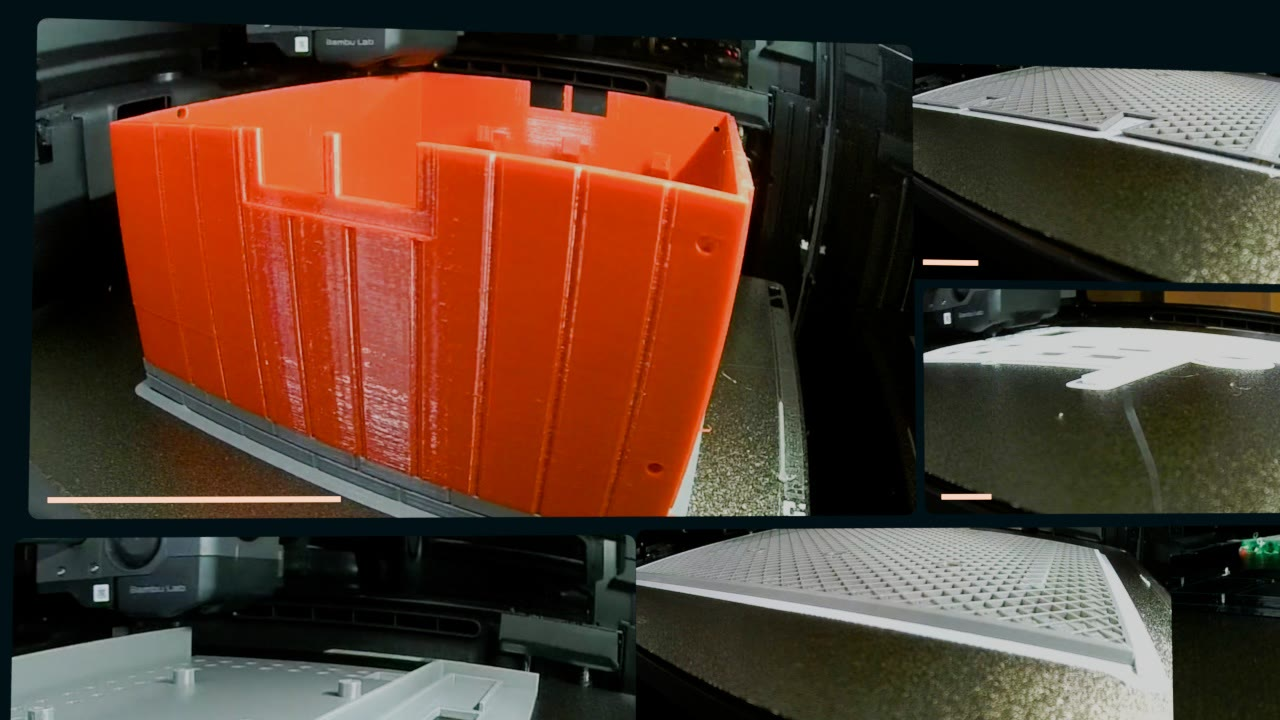
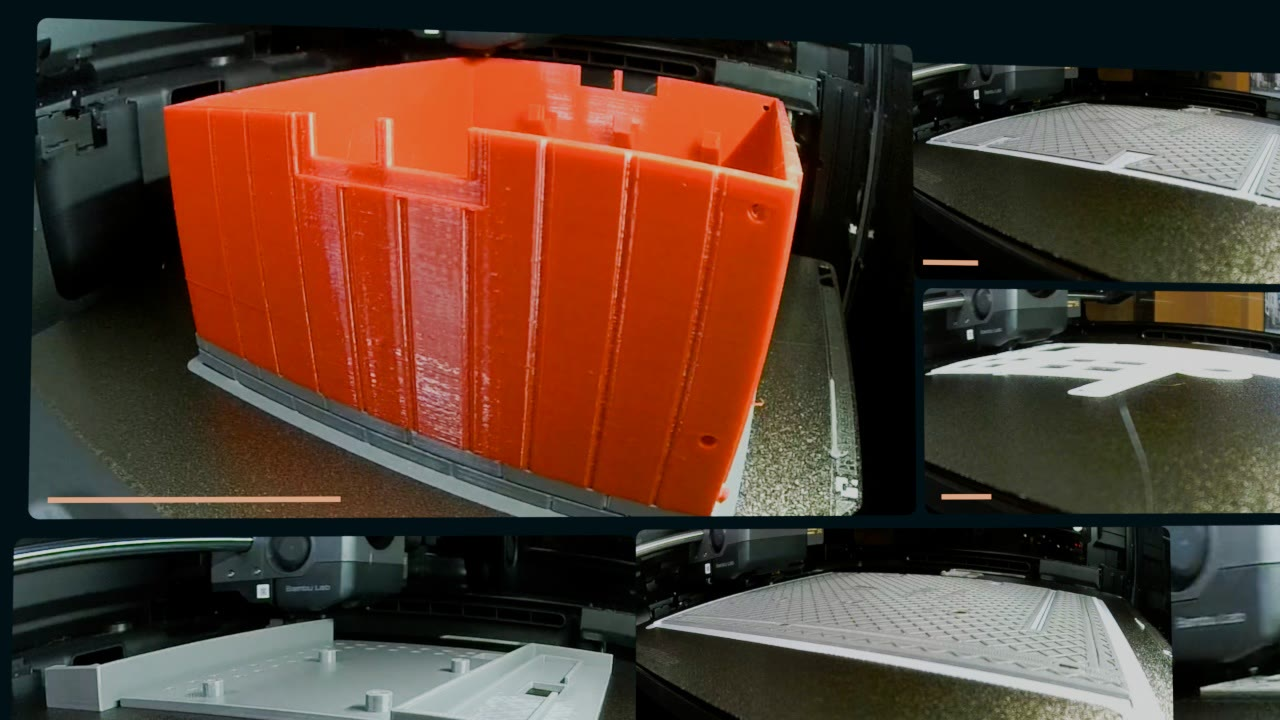
Film: timelapse-rutorna beskurna och i takt
Varje ruta i utskriftsväggen är beskuren kring sin del och följer den när
byggplattan sänks. Blomlådan visas utan filamenttornet. Klippen spelas bara
fram till att delen är färdig, så att de korta klippen inte står klara
medan de andra fortfarande skrivs ut. 5.1 ska bli Marcus film när
byggplattan läggs i.

diff --git a/trailer/storyboard/storyboard.html b/trailer/storyboard/storyboard.html
@@ -134,7 +134,7 @@ td:first-child { color: var(--fg); white-space: nowrap; font-family: var(--mono)
 <div class="wrap">
 
 <header class="top">
-  <div class="eyebrow">Storyboard v33 · Riktiga timelapse-klipp i utskriftsväggen</div>
+  <div class="eyebrow">Storyboard v34 · Timelapse-klippen beskurna och i takt</div>
   <h1>Projekt <span>Lennart</span></h1>
   <p class="lead">En helt orimlig mängd teknik, redovisad med fullt allvar, för att en ekorre ska få äta sin nöt i fred.</p>
   <div class="facts">
@@ -331,7 +331,7 @@ td:first-child { color: var(--fg); white-space: nowrap; font-family: var(--mono)
     <div><h3>Kvar att lösa</h3>
       <ul>
         <li><b>Finalen.</b> Film på det riktiga huset med en fågel och med Lennart, när huset är utskrivet. Tills dess ligger platshållare där.</li>
-        <li><b>Film från utskriften.</b> Utskriftsväggen (5.2–5.3) använder nu dina åtta timelapse-klipp. Kvar är 5.1, som fortfarande är en stillbild ur 3D, och den kan bytas mot ett närklipp på munstycket.</li>
+        <li><b>Film från utskriften.</b> Utskriftsväggen (5.2–5.3) använder nu dina åtta timelapse-klipp. Kvar är 5.1: du filmar när du lägger i byggplattan, som om du förbereder utskrifterna. Tills dess är det en stillbild ur 3D.</li>
         <li><b>Originalfilerna i högre upplösning.</b> Klippen är 720p och förstoras nästan två gånger.</li>
         <li><b>Inköpslistan</b>, så att antal servon, filamentfärger och övriga delar blir rätt i del 4.</li>
         <li><b>Vilken AI-tjänst</b> som används i molnet, om den ska nämnas vid namn.</li>
@@ -373,7 +373,7 @@ td:first-child { color: var(--fg); white-space: nowrap; font-family: var(--mono)
     <li><b>Du godkänner ordningen och manuset</b>, eller ger noter per klippnummer.</li>
     <li><b>Du spelar in rösten</b>, en fil per del.</li>
     <li><b>Jag bygger del 2</b>, planen med pappfigurerna, och tajmar om de färdiga delarna efter din röst.</li>
-    <li><b>Del 6</b> byggs i 3D. Del 5 visar dina riktiga timelapse-klipp, utom 5.1 som är en stillbild ur 3D.</li>
+    <li><b>Del 6</b> byggs i 3D. Del 5 visar dina riktiga timelapse-klipp. 5.1 byts mot din film när du lägger i byggplattan.</li>
     <li><b>Finalen</b> klipps in när huset är utskrivet och filmat.</li>
   </ol>
 </section>
@@ -414,7 +414,7 @@ const ACTS = [
   ['4.2','1:57','6 s','Filamentet','a3_2','cg','Bron till utskriften.','Fem filamentrullar, röd, grön, vit, grå och svart, glider in. Kameran landar över alla fem och åker sedan in mot den röda.','Inåkning till makro.','Kall kant från höger.','Rullen accelererar.','Kameran åker in i rullens svarta nav tills bilden är svart.','"Plus en massa filament i rätt färger. Claude satte ihop inköpslistan, och sen var det bara för mig och Lennart att hosta upp pengarna."','Ett surr som går över i skrivarens fläkt.','3D'],
  ]],
  ['5 · Utskriften', '2:03–2:16', 'Utskriftsväggen visar nu dina åtta riktiga timelapse-klipp från skrivaren. 5.1 är fortfarande en stillbild ur 3D.', [
-  ['5.1','2:03','3 s','Lager för lager','12','cg','Bron från digitalt till fysiskt.','Stugans kropp halvvägs utskriven på skrivarens byggplatta. Den utskrivna delen har synliga lagerlinjer, det lager som skrivs just nu glöder vid munstycket, och resten av stugan syns som en svag genomskinlig förhandsvisning. Visar övergången från ritning till utskrift: modellen byggs upp ett tunt lager i taget.','Snett ovanifrån.','Sval och platt.','Planet stiger nerifrån och upp, som utskriften kommer att göra.','Munstycket glider in och lägger sig på planet.','"Och sen skrev jag ut allt."','En stigande ton som går över i fläkten.','Stillbild ur 3D från GLB, platshållare. Riktigt material: en skärminspelning från slicern (programmet som delar upp modellen i lager) eller ett närklipp på munstycket från skrivaren.'],
+  ['5.1','2:03','3 s','Lager för lager','12','cg','Bron från digitalt till fysiskt.','Du lägger i byggplattan i skrivaren och gör den redo, som om du förbereder utskrifterna i klippen efter. Tills den filmen finns ligger en stillbild ur 3D här: stugans kropp halvvägs utskriven, med det lager som skrivs just nu glödande vid munstycket.','Snett ovanifrån.','Sval och platt.','Planet stiger nerifrån och upp, som utskriften kommer att göra.','Munstycket glider in och lägger sig på planet.','"Och sen skrev jag ut allt."','En stigande ton som går över i fläkten.','Stillbild ur 3D från GLB, platshållare. Riktigt material: du filmar när du lägger i byggplattan i din skrivare.'],
   ['5.2','2:06','4 s','Utskriftsväggen','u1','mix','Visa hur mycket som skrevs ut.','En utskrift i helbild. Kameran backar och vrids, och det visar sig att den är en av åtta rutor i en vägg av timelapse-klipp i olika storlekar. Rutorna dyker fram utåt från den första.','Helbild som backar till en sned vy av väggen.','Rutorna är bildens enda ljus mot mörk petroleumblå botten.','Rutorna dyker fram en i taget, på olika djup.','Kameran fortsätter in i nästa klipp utan avbrott.','Ingen röst.','Ett lätt ljud per ruta.','Dina åtta timelapse-klipp från skrivaren (15–18/11) i 3D-layout. Huvudrutan är stugans röda kropp.'],
   ['5.3','2:10','6 s','Alla blir klara','u2','mix','Tid och tålamod, och att allt blev klart.','Kameran glider rakt framifrån och väggen planas ut till en exakt layout med åtta rutor. En tunn orange linje fylls under varje ruta, och alla når fram samtidigt och blixtrar till.','Rakt framifrån, långsam åkning.','Samma.','Linjerna fylls, alla blir klara i samma ögonblick.','Rutorna glider isär som dörrar och kameran åker in genom öppningen, rakt in i sprängskissen.','"Utskriften tog några dagar. Det här med att det ska bli rätt första gången är ändå lite överskattat."','Ett gemensamt klart-ljud när linjerna blixtrar.','Dina timelapse-klipp, tidsjusterade så att alla blir klara samtidigt: varje klipp går från tom byggplatta till färdig del medan linjen under rutan fylls.'],
  ]],
@@ -436,7 +436,7 @@ const FILM = {
  "1.1": "Ur del 1 v1, klippt efter din inspelning.", "1.2": "Ny presentation: korten byggs med film/verktyg/tre_rutor.py. Samma klipp och tider som förut, nu med ett mjukt klick per kort.", "1.3": "Ur del 1 v3. Namnskylten kommer tidigare och ligger kvar in i nästa klipp.", "1.4": "Ur del 1. Nytt slut: Lennart öppnar tassarna och släpper nöten (genererat med Higgsfield), kameran följer den ner till 2.1.",
  "2.1": "Ny version, v8: nöten från 1.4 faller ner och landar på fatet. Vattnet i skålen är nu riktigt vatten: genomskinligt, med krusningar. Figurerna står på en rak kant och vickar på foten i stället för att gå ner i golvet.", "2.2": "Ur v3. Vattnet i skålen är nu riktigt vatten: genomskinligt, med krusningar. Figurerna står på en rak kant och vickar på foten i stället för att gå ner i golvet.", "2.3": "Ur v3. Vattnet i skålen är nu riktigt vatten: genomskinligt, med krusningar. Figurerna står på en rak kant och vickar på foten i stället för att gå ner i golvet.", "2.4": "Ur v3. Vattnet i skålen är nu riktigt vatten: genomskinligt, med krusningar. Figurerna står på en rak kant och vickar på foten i stället för att gå ner i golvet.", "2.5": "Ny version, v5: nej-signalen slår ner i fatet, som snurrar ut med ett porslinsklirr. Vattnet i skålen är nu riktigt vatten: genomskinligt, med krusningar. Figurerna står på en rak kant och vickar på foten i stället för att gå ner i golvet.", "2.6": "Ny version, v6: nötterna vilar, kameran lyfter i slutet. Vattnet i skålen är nu riktigt vatten: genomskinligt, med krusningar. Figurerna står på en rak kant och vickar på foten i stället för att gå ner i golvet.",
  "6.1": "Ny version, v2: byggklippen i hörnen, i takt med musiken (platshållare).", "6.2": "Ny version, v2: byggklippen går när kameran åker nära (platshållare).", "6.3": "Första renderingen, v1. Rösten klipps inte längre i slutet av \"honom\".", "3.1": "Ny version, v6: ett litet munstycke under fönstret projicerar ritningen, med mjuk rörelse.", "3.2": "Ny version, v4: snabb panorering i slutet.",
- "4.1": "Ny version, v6: konturer och allt det andra som köptes längs kanterna.", "4.2": "Ny version, v6: fem filamentfärger, in i den röda rullens nav i slutet. Det svarta filamentet är blankare så att det syns.", "5.2": "Ny version, v2: dina åtta riktiga timelapse-klipp i stället för stillbilderna. Ett klick per ruta.", "5.3": "Ny version, v2: alla åtta klippen blir klara samtidigt."
+ "4.1": "Ny version, v6: konturer och allt det andra som köptes längs kanterna.", "4.2": "Ny version, v6: fem filamentfärger, in i den röda rullens nav i slutet. Det svarta filamentet är blankare så att det syns.", "5.2": "Ny version, v3: varje ruta är beskuren kring sin del och följer den när plattan sänks. Blomlådan visas utan filamenttornet. Ett klick per ruta.", "5.3": "Ny version, v3: varje klipp spelas bara fram till att delen är färdig, så att alla blir klara samtidigt."
 };
 // Scener som väntar på riktigt material (timelapse-klipp, film av huset). De får vattenstämpeln VÄNTAR PÅ MATERIAL här och i filmen.
 const VANTAR = ['5.1', '7.1', '7.2', '7.3', '7.4'];

diff --git a/trailer/film/akt_utskrift.py b/trailer/film/akt_utskrift.py
@@ -4,7 +4,7 @@
 # blir klara i samma ogonblick (rakt klipp till sprangskissen, 6.1).
 # Kor:  blender -b -P akt_utskrift.py -- <ut-mapp (absolut)> <bredd> [tider i sekunder ...]
 # Klippen ligger i film/timelapse/rutor/<1-8>/%04d.jpg (uppdelade med ffmpeg, 1280 px). Varje ruta spelar sitt klipp fran borjan
-# nar den dyker fram och sista bilden landar nar alla blir klara (DONE), sa korta klipp gar langsammare och langa fortare.
+# nar den dyker fram och den fardiga delen (KLAR) landar nar alla blir klara (DONE), sa korta klipp gar langsammare och langa fortare.
 import bpy, sys, os, math, random
 from mathutils import Vector, Euler, Matrix
 HERE = os.path.dirname(os.path.abspath(__file__))
@@ -27,16 +27,36 @@ except Exception: pass
 sc.world = bpy.data.worlds.new('w'); sc.world.use_nodes = True; bg = sc.world.node_tree.nodes['Background']; bg.inputs['Color'].default_value = (0.004, 0.014, 0.018, 1)
 def link(o): sc.collection.objects.link(o); return o
 
-# ---------- layouten: 6 x 4 celler pa en yta som ar 16 x 9, tolv rutor i olika storlekar ----------
+# ---------- layouten: 6 x 4 celler pa en yta som ar 16 x 9, atta rutor i olika storlekar ----------
 CW, CH, G = 16 / 6, 9 / 4, 0.07
 LAYOUT = [  # (kolumn, rad, bredd, hojd)
     (0, 0, 3, 2),   # A huvudrutan, 16:9 - bilden borjar har
     (3, 0, 2, 1), (5, 0, 1, 2), (3, 1, 2, 1),
     (0, 2, 2, 2), (2, 2, 2, 1), (2, 3, 2, 1), (4, 2, 2, 2)]
-# klipp och beskarning: (klipp 1-8, zoom, mitt u, mitt v) - zoom < 1 skar bort fisheye-kanterna. Klippen ar numrerade i datumordning (se film/timelapse)
-CROP = [(3, 0.86, 0.55, 0.50),   # A stugans roda kropp
-        (6, 0.85, 0.52, 0.50), (7, 1.0, 0.55, 0.5), (4, 0.75, 0.55, 0.66),
-        (1, 0.80, 0.58, 0.58), (5, 0.85, 0.52, 0.50), (2, 0.58, 0.47, 0.68), (8, 0.78, 0.52, 0.47)]
+# klipp och beskarning. Klippen ar numrerade i datumordning (se film/timelapse). Beskarningen ar i pixlar i klippets 1280 x 720-bilder:
+# (andel av utskriften, vanster, overkant, bredd) - hojden foljer rutans form. Med flera nycklar foljer beskarningen delarna,
+# som flyttar sig i bild nar byggplattan sanks under utskriften.
+CROP = [(3, [(0, 90, 76, 1101)]),                     # A stugans roda kropp
+        (6, [(0, 64, 41, 1216)]),                     # taket, hoger halva
+        (8, [(0, 784, 28, 224), (0.12, 784, 28, 224), (0.5, 784, 150, 224), (0.75, 784, 205, 240), (1, 784, 262, 240)]),   # blomladan och blommorna, utan filamenttornet till vanster
+        (4, [(0, 186, 9, 1088)]),                     # vita fonsterdelar
+        (1, [(0, 170, 0, 840), (0.15, 170, 0, 840), (0.5, 262, 0, 857), (1, 185, 65, 780)]),   # elektroniklada och monteringsplatta
+        (5, [(0, 51, 34, 1178)]),                     # taket, vanster halva
+        (7, [(0, 256, 74, 768)]),                     # munstycket och de svarta smadelarna
+        (2, [(0, 373, 0, 463)])]                      # skarmram och skarmklamma, med skrivhuvudet ovanfor
+# rutan dar utskriften ser fardig ut (matt mot klippets sista bild). Efter den star bilden still, sa klippet spelas bara dit:
+# alla blir da klara samtidigt i stallet for att de korta klippen star fardiga en stor del av tiden
+KLAR = {1: 479, 2: 58, 3: 1202, 4: 67, 5: 51, 6: 51, 7: 242, 8: 343}
+
+def crop_at(keys, p, at):
+    # beskarningen vid andelen p, som (skala u, skala v, forskjutning u, forskjutning v) i UV
+    for (p0, *c0), (p1, *c1) in zip(keys, keys[1:]):
+        if p <= p1: f = 0 if p1 == p0 else min(max((p - p0) / (p1 - p0), 0), 1); x, y, w = [a + (b - a) * f for a, b in zip(c0, c1)]; break
+    else: x, y, w = keys[-1][1:]
+    h = w / at
+    if h > 720: h = 720; w = h * at
+    x = min(max(x, 0), 1280 - w); y = min(max(y, 0), 720 - h)
+    return w / 1280, h / 720, x / 1280, 1 - (y + h) / 720
 
 def rrect(w, h, r, name):
     pts = []
@@ -48,13 +68,12 @@ def rrect(w, h, r, name):
 
 def frame_img(k, n): return bpy.data.images.load(os.path.join(RUTOR, str(k), '%04d.jpg' % min(max(n, 0), NF[k] - 1)), check_existing=True)
 TILES = []; rng = random.Random(4)
-for i, ((c, r, w, h), (k, z, cu, cv)) in enumerate(zip(LAYOUT, CROP)):
+for i, ((c, r, w, h), (k, keys)) in enumerate(zip(LAYOUT, CROP)):
     tw, th = w * CW - 2 * G, h * CH - 2 * G; cx, cy = -8 + (c + w / 2) * CW, 4.5 - (r + h / 2) * CH
     m = bpy.data.materials.new('ruta%d' % i); m.use_nodes = True; nt = m.node_tree; nt.nodes.clear()
     o_ = nt.nodes.new('ShaderNodeOutputMaterial'); em = nt.nodes.new('ShaderNodeEmission'); tx = nt.nodes.new('ShaderNodeTexImage'); tx.image = frame_img(k, 0); tx.extension = 'EXTEND'
     uvn = nt.nodes.new('ShaderNodeTexCoord'); mp = nt.nodes.new('ShaderNodeMapping')
-    ai, at = 16 / 9, tw / th; fw, fh = (1.0, ai / at) if at >= ai else (at / ai, 1.0)
-    sw, sh = fw * z, fh * z; ou = min(max(cu - sw / 2, 0), 1 - sw); ov = min(max(cv - sh / 2, 0), 1 - sh)
+    at = tw / th; sw, sh, ou, ov = crop_at(keys, 0, at)
     mp.inputs['Location'].default_value = (ou, ov, 0); mp.inputs['Scale'].default_value = (sw, sh, 1)
     nt.links.new(uvn.outputs['UV'], mp.inputs['Vector']); nt.links.new(mp.outputs[0], tx.inputs['Vector']); nt.links.new(tx.outputs['Color'], em.inputs['Color']); nt.links.new(em.outputs[0], o_.inputs['Surface'])
     ob = link(bpy.data.objects.new('ruta%d' % i, rrect(tw, th, 0.09, 'ruta%d' % i))); ob.data.materials.append(m)
@@ -64,7 +83,7 @@ for i, ((c, r, w, h), (k, z, cu, cv)) in enumerate(zip(LAYOUT, CROP)):
     pme = bpy.data.meshes.new('l'); pme.from_pydata([(0, 0, 0), (1, 0, 0), (1, 0.045, 0), (0, 0.045, 0)], [], [(0, 1, 2, 3)]); pme.materials.append(pm)
     bar = link(bpy.data.objects.new('linje%d' % i, pme)); bar.parent = ob; bar.location = (-tw / 2 + 0.16, -th / 2 + 0.14, 0.002)
     d = (Vector((cx, cy)) - Vector((-4, 2.25))).length
-    TILES.append(dict(ob=ob, bar=bar, w=tw - 0.32, home=Vector((cx, cy, 0)), em=em, pe=pe, mp=mp, tx=tx, k=k, s0=(sw, sh), o0=(ou, ov), dist=d, dz=rng.uniform(-0.9, 0.9) if i else 0.0, push=rng.uniform(0.02, 0.06)))
+    TILES.append(dict(ob=ob, bar=bar, w=tw - 0.32, home=Vector((cx, cy, 0)), em=em, pe=pe, mp=mp, tx=tx, k=k, keys=keys, at=at, dist=d, dz=rng.uniform(-0.9, 0.9) if i else 0.0, push=rng.uniform(0.02, 0.06)))
 order = sorted(range(len(TILES)), key=lambda j: TILES[j]['dist'])
 for n, j in enumerate(order): TILES[j]['t0'] = 0.0 if j == 0 else 1.9 + 0.11 * n     # rutorna dyker fram utat fran huvudrutan
 
@@ -81,10 +100,9 @@ def state(t):
         sx_ = 1 if T['home'].x > 0 else -1; T['ob'].location = T['home'] + Vector((sx_ * door * (9 + 0.5 * abs(T['home'].x)), 0, -7 * (1 - u) + T['dz'] * (1 - flat) + 4 * door)); T['ob'].rotation_euler = (0, -sx_ * 0.9 * door, 0)
         s = 0.86 + 0.14 * u; T['ob'].scale = (s, s, 1); T['em'].inputs['Strength'].default_value = 1.0 * u
         p = min(1, max(0, (t - T['t0']) / (DONE - T['t0']))) if vis else 0; T['bar'].scale = (max(p * T['w'], 0.001), 1, 1)
-        T['tx'].image = frame_img(T['k'], round(p * (NF[T['k']] - 1)))   # klippet gar fran forsta till sista bilden medan linjen fylls
-        T['pe'].inputs['Strength'].default_value = 3.0 + 14.0 * (sm(t, DONE, DONE + 0.08) * (1 - sm(t, DONE + 0.15, DONE + 0.6)))   # alla linjer blixtrar till nar de blir klara samtidigt
-        k = T['push'] * min(t, DONE) / DONE; sw, sh = T['s0']; T['mp'].inputs['Scale'].default_value = (sw * (1 - k), sh * (1 - k), 1)       # langsam inzoomning i varje ruta
-        T['mp'].inputs['Location'].default_value = (T['o0'][0] + sw * k / 2, T['o0'][1] + sh * k / 2, 0)
+        T['tx'].image = frame_img(T['k'], round(p * KLAR[T['k']]))   # klippet gar fran tom platta till fardig del medan linjen fylls
+        k = T['push'] * min(t, DONE) / DONE; sw, sh, ou, ov = crop_at(T['keys'], p, T['at'])       # beskarningen foljer delarna, plus en langsam inzoomning i varje ruta
+        T['mp'].inputs['Scale'].default_value = (sw * (1 - k), sh * (1 - k), 1); T['mp'].inputs['Location'].default_value = (ou + sw * k / 2, ov + sh * k / 2, 0)
     # kameran: helbild pa huvudrutan -> backar och vrids till en sned vy av vaggen -> glider tillbaka rakt fram nar vaggen planas ut
     back = sm(t, 1.7, 5.0); home = sm(t, 5.0, 8.6)
     tgt = Vector((-4, 2.25, 0)).lerp(Vector((0, 0, 0)), back)

diff --git a/TOKENS.md b/TOKENS.md
@@ -19,7 +19,7 @@ Metoden anger hur siffran togs fram: *exakt* (avläst i verktyget) eller *uppska
 | 2026-11-15 (kväll, livebild) | Publik livebild på lennart.cam (bilder bara när någon tittar), adminvy bakom inloggning med inställningar och av-knapp, Pi-appen skickar 640 × 360 i 2 bilder/s. Testat lokalt och mot riktiga lennart.cam. | ca 5–10 miljoner in, ca 0,08 miljoner ut [osäkert] | Uppskattat: ca 40 modellanrop × 130 000–240 000 tokens kontext. Ut uppskattat ur mängden skriven kod och text. | 0 | Ingen lokal modell användes |
 | 2026-11-15 (kväll, admin) | Felsökning av inloggningen i adminvyn: tolerans för mellanslag och citattecken, fingeravtryck i loggen, test i riktig webbläsare, besökarens adress bakom Cloudflare | ca 3–6 miljoner in, ca 0,03 miljoner ut [osäkert] | Uppskattat: ca 20 modellanrop × 150 000–260 000 tokens kontext | 0 | Ingen lokal modell användes |
 | 2026-11-15 (kväll, rotation och servon) | Kamerans rotation och servostyrning i adminvyn: kommandon och inställningar via Pi:ns väntande anrop, egen drivrutin för PCA9685, kopplingsguide för servona, rättning av dolda bilder i stilmallen. Testat med låtsashårdvara och i Chromium. | ca 6–12 miljoner in, ca 0,1 miljoner ut [osäkert] | Uppskattat: ca 40 modellanrop × 160 000–280 000 tokens kontext. Ut uppskattat ur mängden skriven kod och text. | 0 | Ingen lokal modell användes |
-| 2026-11-14 – 2026-11-19 | Trailern, Claude Code i Claude-appen på Windows (lokal session): storyboard, alla 3D-scener i Blender, Marcus röst bearbetad och lagd mot klippen, musik och ljudeffekter, övergångar, flytt av filmprojektet till repot, övergången från Lennart till planen, vattenstämpeln, inköpen, servonas tajming, byggklippen i monteringen, munstycket i designen, delarna som byggsats i öppningen, ekollonet i titeln, nöten som faller från 1.4 till 2.1, rättelser, varianter av 0.3 och 0.4 och det osynliga klippet mellan dem, släppet i 1.4 genererat med Higgsfield, LED-skärmen i mitten av 0.4, korten i 1.2, 0.4–0.5 i en tagning, glitchen och det släckta golvet, vattnet i skålen, övergången där titelns pixlar lossnar, figurerna som vickar på foten och fem förslag på övergången från titeln, där vändbrickorna valdes, och Marcus åtta timelapse-klipp i utskriftsväggen | ca 527,9 miljoner in, varav 523,1 miljoner cacheläsning och 4,8 miljoner cacheskrivning, och 1,90 miljoner ut | Exakt ur sessionsloggen fram till 2026-11-18 23.22 UTC: summan av `usage`-fälten för 1804 modellanrop (Claude Fable 5.2 och Claude Opus 5.5), räknat en gång per svar. Arbetet efter den tidpunkten ingår inte. | ej räknat | Whisper medium kördes lokalt för att skriva ut rösten (ca 2,5 minuter ljud). Whisper räknar inte tokens på samma sätt, och antalet loggades inte. |
+| 2026-11-14 – 2026-11-19 | Trailern, Claude Code i Claude-appen på Windows (lokal session): storyboard, alla 3D-scener i Blender, Marcus röst bearbetad och lagd mot klippen, musik och ljudeffekter, övergångar, flytt av filmprojektet till repot, övergången från Lennart till planen, vattenstämpeln, inköpen, servonas tajming, byggklippen i monteringen, munstycket i designen, delarna som byggsats i öppningen, ekollonet i titeln, nöten som faller från 1.4 till 2.1, rättelser, varianter av 0.3 och 0.4 och det osynliga klippet mellan dem, släppet i 1.4 genererat med Higgsfield, LED-skärmen i mitten av 0.4, korten i 1.2, 0.4–0.5 i en tagning, glitchen och det släckta golvet, vattnet i skålen, övergången där titelns pixlar lossnar, figurerna som vickar på foten och fem förslag på övergången från titeln, där vändbrickorna valdes, och Marcus åtta timelapse-klipp i utskriftsväggen, beskurna och tajmade | ca 535,5 miljoner in, varav 530,7 miljoner cacheläsning och 4,8 miljoner cacheskrivning, och 1,93 miljoner ut | Exakt ur sessionsloggen fram till 2026-11-18 23.37 UTC: summan av `usage`-fälten för 1841 modellanrop (Claude Fable 5.2 och Claude Opus 5.5), räknat en gång per svar. Arbetet efter den tidpunkten ingår inte. | ej räknat | Whisper medium kördes lokalt för att skriva ut rösten (ca 2,5 minuter ljud). Whisper räknar inte tokens på samma sätt, och antalet loggades inte. |
 | 2026-11-15 | Kort Claude Code-session i samma mapp: försök att snygga till en timelapse av utskriften med Higgsfield [verifiera vad som blev gjort] | ca 7,0 miljoner in, varav 6,9 miljoner cacheläsning, och 0,03 miljoner ut | Exakt ur sessionsloggen: summan av `usage`-fälten för 50 modellanrop (Claude Opus 5.5) | 0 | Ingen lokal modell användes |
 
 ## Utanför tokenräkningen

diff --git a/trailer/film/LAGE.md b/trailer/film/LAGE.md
@@ -43,11 +43,11 @@ Senast uppdaterad 2026-11-16. Skriven för att arbetet ska kunna fortsätta på 
 
 ## Nästa steg
 
-1. Klart 19/11: åtta timelapse-klipp i `timelapse/`, inbyggda i utskriftsväggen. Väggen har nu åtta rutor i stället för tolv. Fler klipp kan läggas till genom att utöka `LAYOUT` och `CROP` i `akt_utskrift.py`.
+1. Klart 19/11: åtta timelapse-klipp i `timelapse/`, inbyggda i utskriftsväggen. Väggen har nu åtta rutor i stället för tolv. Varje ruta har en egen beskärning som följer delen när plattan sänks, och klippen spelas bara fram till att delen är färdig (`KLAR`), så att alla blir klara samtidigt. Blomlådan är beskuren utan filamenttornet. Fler klipp kan läggas till genom att utöka `LAYOUT`, `CROP` och `KLAR` i `akt_utskrift.py`.
 2. Riktig film till del 7 när huset står ute.
 3. Fyra riktiga klipp från bygget till monteringen. De ersätter platshållarna (se Byggklippen nedan).
 4. Elektroniken i monteringen (del 6).
-5. 5.1 som rörlig bild i stället för stillbild, gärna en skärminspelning från slicern eller ett närklipp på munstycket.
+5. 5.1: Marcus filmar byggplattan när den läggs i skrivaren, som en förberedelse för utskrifterna i väggen efter. Ersätter stillbilden ur 3D. Om Marcus syns i bild ska samtycket i KALLOR.md utökas till det klippet [verifiera].
 6. Storyboardens röstspalt har fortfarande den gamla manustexten, inte orden i inspelningen.
 
 ## Att kontrollera före publicering
